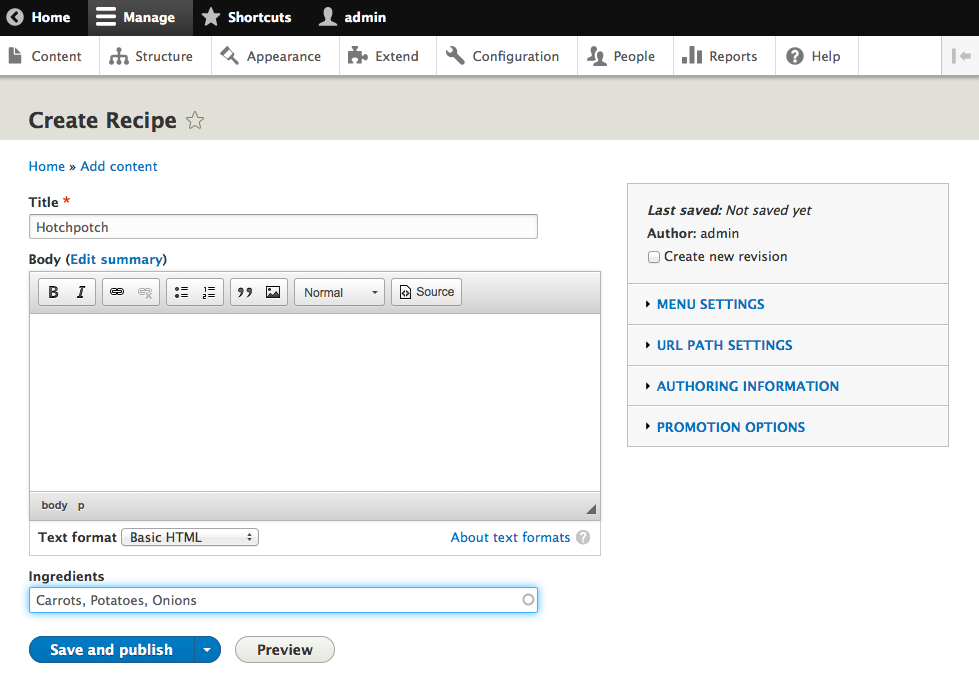
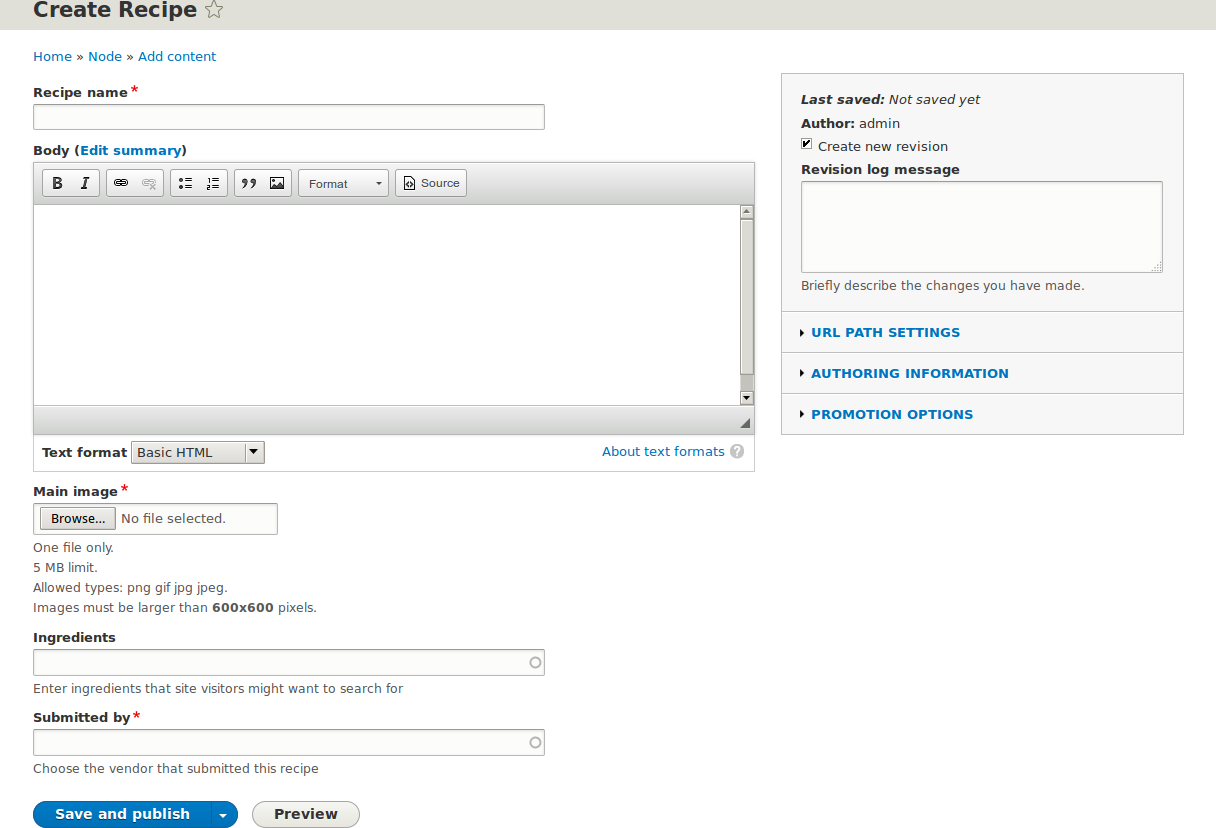
Issue #2539918 by jhodgdon: Automate more screenshots and update images

diff --git a/auto_screenshots/src/Tests/UserGuideDemoTestBase.php b/auto_screenshots/src/Tests/UserGuideDemoTestBase.php
@@ -112,6 +112,20 @@ abstract class UserGuideDemoTestBase extends WebTestBase {
     'recipe_field_ingredients_term_1' => 'Butter',
     'recipe_field_ingredients_term_2' => 'Eggs',
     'recipe_field_ingredients_term_3' => 'Milk',
+    'recipe_field_ingredients_term_4' => 'Carrots',
+
+    // Recipe 1 content item.
+    'recipe_1_title' => 'Green Salad',
+    'recipe_1_path' => '/recipes/green_salad',
+    'recipe_1_body' => 'Chop up your favorite vegetables and put them in a bowl.',
+    'recipe_1_ingredients' => 'Carrots, Lettuce, Tomatoes, Cucumbers',
+
+    // Recipe 2 content item.
+    'recipe_2_title' => 'Fresh Carrots',
+    'recipe_2_path' => '/recipes/carrots',
+    'recipe_2_body' => 'Serve multi-colored carrots on a plate for dinner.',
+    'recipe_2_ingredients' => 'Carrots',
+
   ];
 
   /**
@@ -525,7 +539,7 @@ abstract class UserGuideDemoTestBase extends WebTestBase {
     $this->drupalPostForm(NULL, [
         'required' => 1,
         'settings[file_directory]' => $this->demoInput['vendor_field_image_directory'],
-        'settings[min_resolution][x]' => 800,
+        'settings[min_resolution][x]' => 600,
         'settings[min_resolution][y]' => 600,
         'settings[max_filesize]' => '5 MB',
       ], $this->callT('Save settings'));
@@ -546,7 +560,7 @@ abstract class UserGuideDemoTestBase extends WebTestBase {
     $this->drupalPostForm(NULL, [
         'required' => 1,
         'settings[file_directory]' => $this->demoInput['recipe_field_image_directory'],
-        'settings[min_resolution][x]' => 800,
+        'settings[min_resolution][x]' => 600,
         'settings[min_resolution][y]' => 600,
         'settings[max_filesize]' => '5 MB',
       ], $this->callT('Save settings'));
@@ -617,6 +631,9 @@ abstract class UserGuideDemoTestBase extends WebTestBase {
     $this->drupalPostForm(NULL, [
         'name[0][value]' => $this->demoInput['recipe_field_ingredients_term_3'],
       ], $this->callT('Save'));
+    $this->drupalPostForm(NULL, [
+        'name[0][value]' => $this->demoInput['recipe_field_ingredients_term_4'],
+      ], $this->callT('Save'));
 
     // Add the Ingredients field to Recipe content type.
     $this->drupalGet('admin/structure/types/manage/' . $recipe . '/fields/add-field');
@@ -682,12 +699,69 @@ abstract class UserGuideDemoTestBase extends WebTestBase {
     // Field settings page for Submitted by field.
     $this->setUpScreenShot('structure-adding-reference-field-settings.png', 'onLoad="window.scroll(0,2000);' . $this->hideArea('#toolbar-administration') . '"');
 
-    // @todo Ready to add more topics here!
+    // Submit this form to set the sort direction to its default. It is not
+    // set properly in the earlier submit, leading to exceptions in a later
+    // test.
+    $this->drupalPostForm(NULL, [], $this->callT('Save settings'));
+
+    // Topic: structure-form-editing - Changing Content Entry Forms.
+
+    $this->drupalGet('admin/structure/types/manage/' . $recipe . '/form-display');
+    // Manage form display page for Recipe, Ingredients field area, with
+    // Widget drop-down outlined.
+    // Note that ideally, the drop-down would be open, but this is not
+    // apparently possible using JavaScript.
+    $this->setUpScreenShot('structure-form-editing-manage-form.png', 'onLoad="' . $this->hideArea('#toolbar-administration, header, .region-breadcrumb, .help') . 'jQuery(\'#edit-fields-field-' . $ingredients . '-type\').val(\'entity_reference_autocomplete_tags\');' . $this->addBorder('#edit-fields-field-' . $ingredients . '-type') . $this->removeScrollbars() . '"');
+
+    // Set the Ingredients field to use tag-style autocomplete.
+    $this->drupalPostForm(NULL, [
+        'fields[field_' . $ingredients . '][type]' => 'entity_reference_autocomplete_tags',
+      ], $this->callT('Save'));
+
+    $this->drupalGet('node/add/' . $recipe);
+    // Create recipe page (node/add/recipe).
+    $this->setUpScreenShot('structure-form-editing-add-recipe.png', 'onLoad="window.scroll(0,100);' . $this->hideArea('#toolbar-administration') . $this->removeScrollbars() . '"');
+
+    // Create two Recipe content items. No screenshots.
+    $this->drupalGet('node/add/' . $recipe);
+    // Submit once.
+    $this->drupalPostForm(NULL, [
+        'title[0][value]' => $this->demoInput['recipe_1_title'],
+        'files[field_' . $main_image . '_0]' => $assets_directory . 'salad.jpg',
+        'body[0][value]' => $this->demoInput['recipe_1_body'],
+        'path[0][alias]' => $this->demoInput['recipe_1_path'],
+        'field_' . $ingredients . '[target_id]' => $this->demoInput['recipe_1_ingredients'],
+        'field_' . $submitted_by . '[0][target_id]' => $this->demoInput['vendor_1_title'],
+      ], $this->callT('Save and publish'));
+    // This will cause an error about missing alt text. Submit again with the
+    // alt text defined.
+    $this->drupalPostForm(NULL, [
+        'field_' . $main_image . '[0][alt]' => $this->demoInput['recipe_1_title'],
+      ], $this->callT('Save and publish'));
+
+    $this->drupalGet('node/add/' . $recipe);
+    $this->drupalPostForm(NULL, [
+        'title[0][value]' => $this->demoInput['recipe_2_title'],
+        'files[field_' . $main_image . '_0]' => $assets_directory . 'carrots.jpg',
+        'body[0][value]' => $this->demoInput['recipe_2_body'],
+        'path[0][alias]' => $this->demoInput['recipe_2_path'],
+        'field_' . $ingredients . '[target_id]' => $this->demoInput['recipe_2_ingredients'],
+        'field_' . $submitted_by . '[0][target_id]' => $this->demoInput['vendor_1_title'],
+      ], $this->callT('Save and publish'));
+    $this->drupalPostForm(NULL, [
+        'field_' . $main_image . '[0][alt]' => $this->demoInput['recipe_2_title'],
+      ], $this->callT('Save and publish'));
 
 
     // Topic (out of order): structure-taxonomy - Concept: Taxonomy.
-    // Screen shot of Carrots taxonomy page after adding Recipe content items.
-    // @todo make this screenshot.
+
+    $this->drupalGet('taxonomy/term/4');
+    // Carrots taxonomy page after adding Recipe content items.
+    $this->setUpScreenShot('structure-taxonomy_listingPage_carrots.png', 'onLoad="' . $this->hideArea('#toolbar-administration, header#header, nav.tabs, footer, .feed-icons, .region-sidebar-first, .region-breadcrumb') . $this->setWidth('.block-system-main-block') . $this->removeScrollbars() . $this->setBodyColor() . '"');
+
+
+    // @todo Add more topics here.
+
 
     // Topic: language-add - Adding a language.
     // For non-English versions, locale and language will already be enabled.
